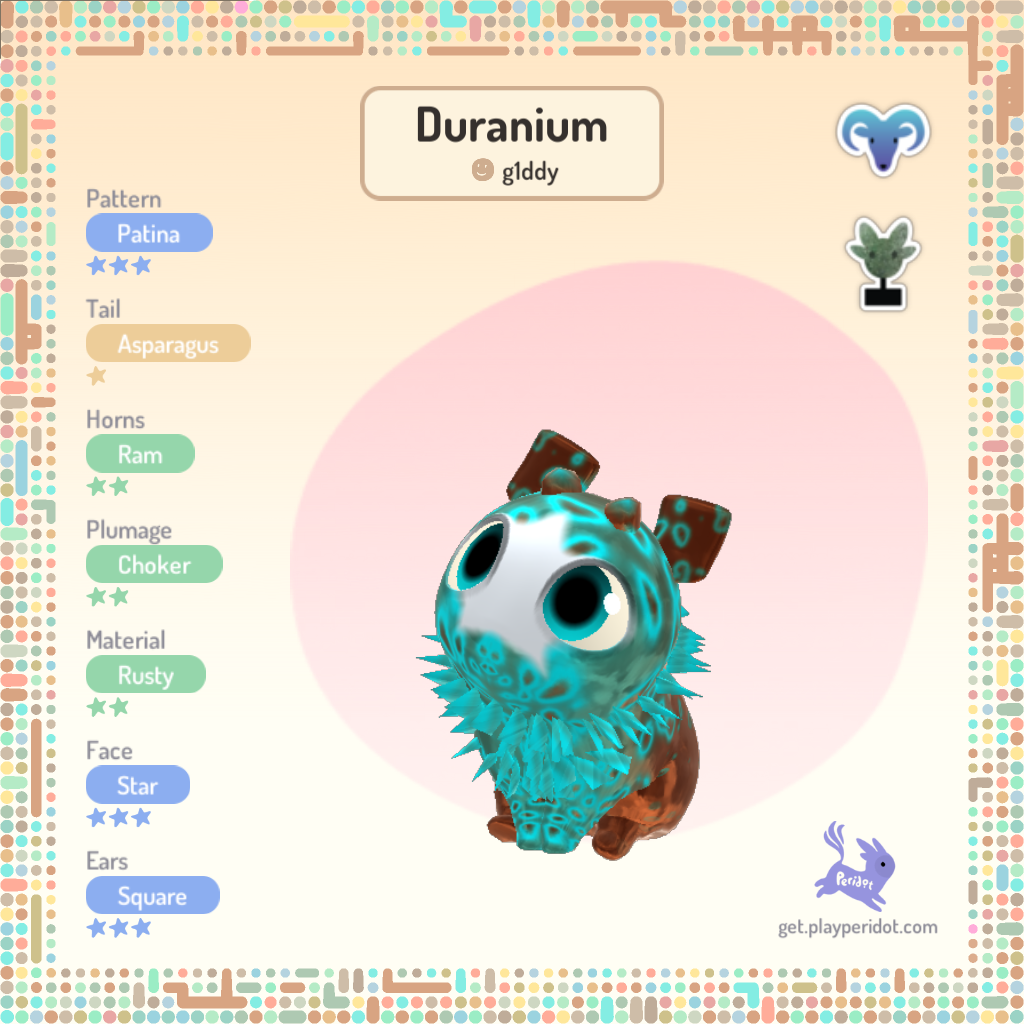
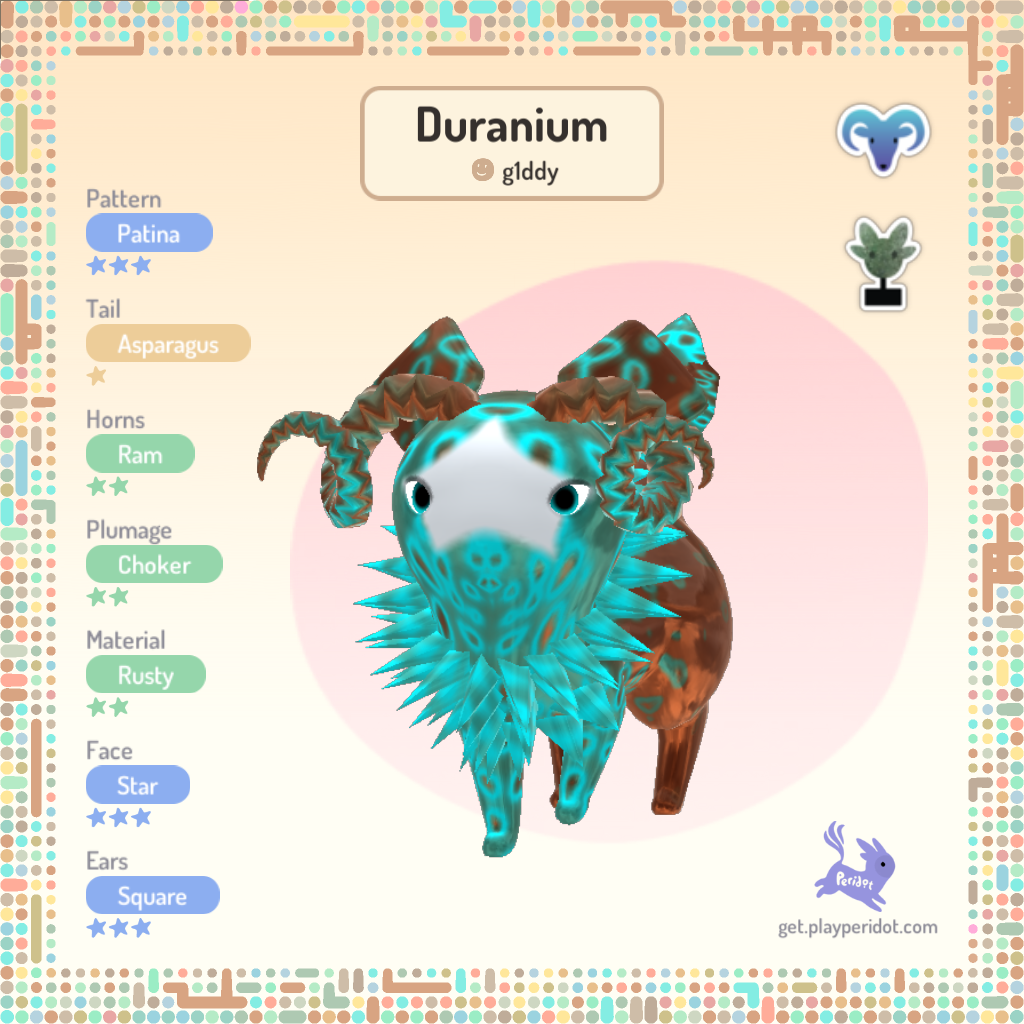
update tree and add adults ss

Changed region(s): [[0.25, 0.3125, 0.7188, 0.8438]]

diff --git a/Peridot-FamilyTree.md b/Peridot-FamilyTree.md
@@ -9,6 +9,7 @@ alpha-1 --> bravo-2("<img src='./assets/Peridots/bravo-2.jpg'> <br /> Bravo")
 beta-2 --> canary-3("<img src='./assets/Peridots/canary-3.jpg'> <br /> Canary (Patchwork)")
 beta-2 --> chevron-3("<img src='./assets/Peridots/chevron-3.jpg'> <br /> Chevron (Ram)")
 bravo-2 --> charlie-3("<img src='./assets/Peridots/charlie-3.jpg'> <br /> Charlie")
+canary-3 --> dill-hulk-4("<img src='./assets/Peridots/dill-hulk-4.jpg'> <br /> Dill-Hulk (Patchwork)")
 canary-3 --> draco-4("<img src='./assets/Peridots/draco-4.jpg'> <br /> Draco (Balloon,Patchwork)")
 charlie-3 --> delta-4("<img src='./assets/Peridots/delta-4.jpg'> <br /> Delta")
 charlie-3 --> dolphin-4("<img src='./assets/Peridots/dolphin-4.jpg'> <br /> Dolphin")
@@ -30,6 +31,7 @@ entropy-5 --> floofish-6("<img src='./assets/Peridots/floofish-6.jpg'> <br /> Fl
 jammie-5 --> lilith-6("<img src='./assets/Peridots/lilith-6.jpg'> <br /> Lilith")
 fable-6 --> glacier-7("<img src='./assets/Peridots/glacier-7.jpg'> <br /> Glacier (Icicle,Rabbit)")
 farceratops-6 --> grazerface-7("<img src='./assets/Peridots/grazerface-7.jpg'> <br /> Grazerface (Dinosaur)")
+floofish-6 --> guina-7("<img src='./assets/Peridots/guina-7.jpg'> <br /> Guina")
 foxtrot-6 --> goldie-7("<img src='./assets/Peridots/goldie-7.jpg'> <br /> Goldie")
 foxtrot-6 --> goral-7("<img src='./assets/Peridots/goral-7.jpg'> <br /> Goral (Clownfish,Unicorn)")
 lilith-6 --> maximus-7("<img src='./assets/Peridots/maximus-7.jpg'> <br /> Maximus")
@@ -49,6 +51,7 @@ kaleidoscope-10 --> mastodon-11("<img src='./assets/Peridots/mastodon-11.jpg'> <
 kandle-10 --> lampent-11("<img src='./assets/Peridots/lampent-11.jpg'> <br /> Lampent (Candle,Clownfish)")
 krypto-10 --> lychee-11("<img src='./assets/Peridots/lychee-11.jpg'> <br /> Lychee (Boba,Rabbit,Static)")
 queezy-10 --> rockstar-11("<img src='./assets/Peridots/rockstar-11.jpg'> <br /> Rockstar (Peacock,Psychedelic)")
+mastodon-11 --> night-snow-12("<img src='./assets/Peridots/night-snow-12.jpg'> <br /> Night-Snow (Gargoyle)")
 rockstar-11 --> slushy-12("<img src='./assets/Peridots/slushy-12.jpg'> <br /> Slushy (Cotton Candy)")
 rockstar-11 --> thermal-12("<img src='./assets/Peridots/thermal-12.jpg'> <br /> Thermal")
 ```
